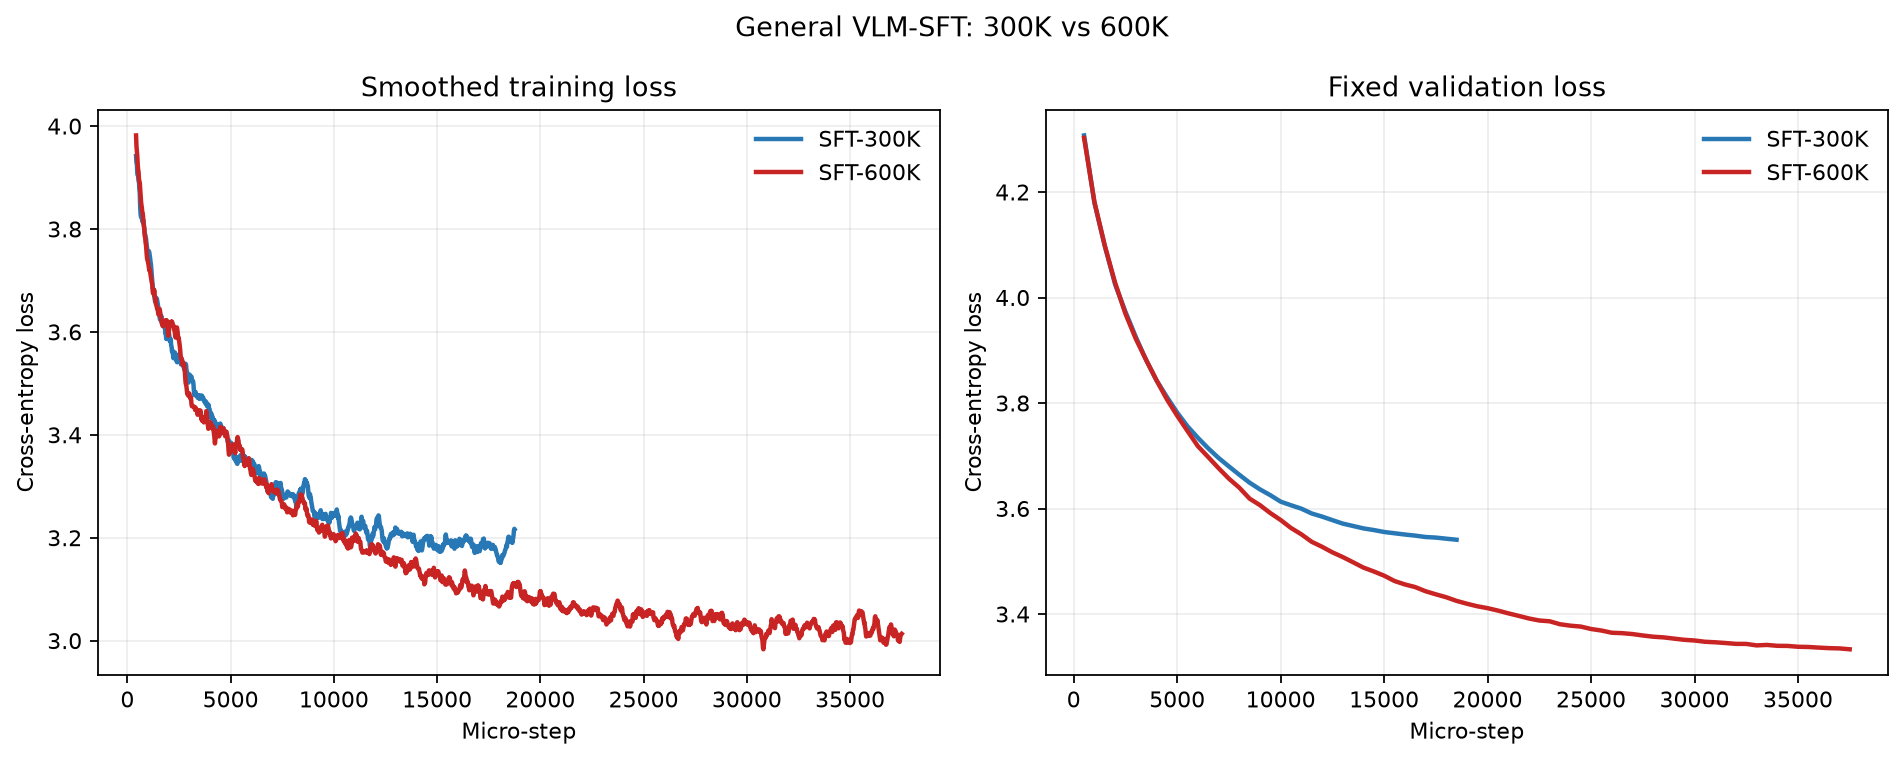
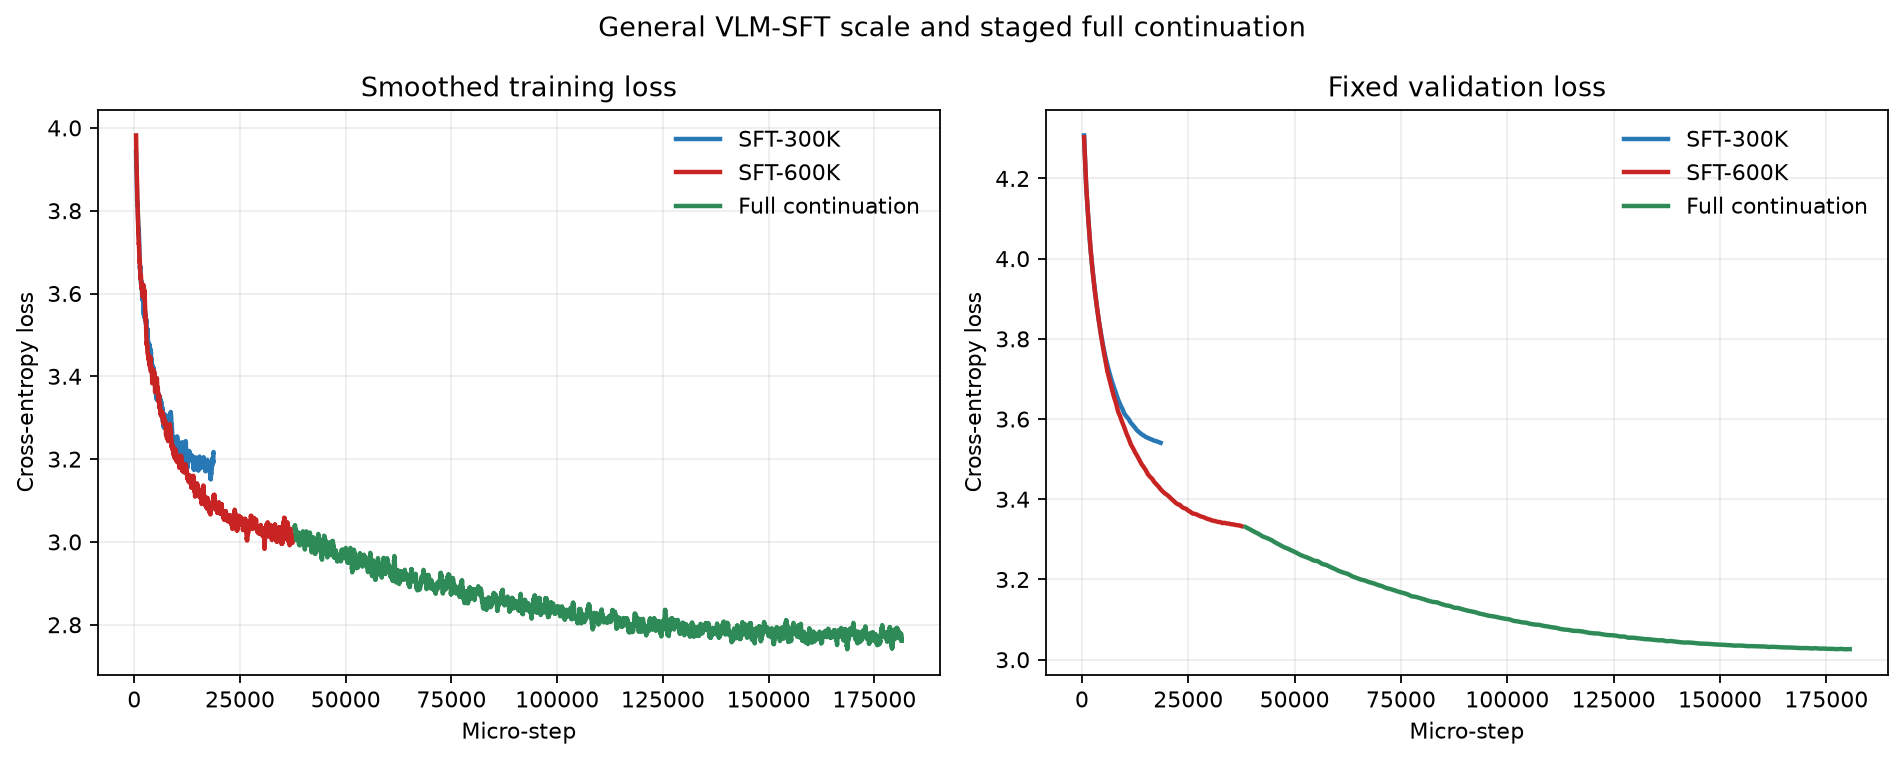
docs: record completed full SFT results

diff --git a/scripts/plot_sft_comparison.py b/scripts/plot_sft_comparison.py
@@ -1,4 +1,4 @@
-"""Plot smoothed 300K/600K SFT training loss and fixed validation loss."""
+"""Plot SFT scale ablations and the staged full-data continuation."""
 
 import re
 from pathlib import Path
@@ -23,20 +23,26 @@ def smooth(values, window=21):
 
 
 fig, axes = plt.subplots(1, 2, figsize=(12, 4.8), dpi=160)
-colors = {"SFT-300K": "#2878B5", "SFT-600K": "#C82423"}
-for label, run in [("SFT-300K", "p2_sft_300k"), ("SFT-600K", "p2_sft_600k")]:
+colors = {"SFT-300K": "#2878B5", "SFT-600K": "#C82423", "Full continuation": "#2E8B57"}
+for label, run, offset in [
+    ("SFT-300K", "p2_sft_300k", 0),
+    ("SFT-600K", "p2_sft_600k", 0),
+    ("Full continuation", "p2_sft_remaining", 37500),
+]:
     steps, losses, validation = parse(f"experiment_runs/{run}/train.log")
+    steps = steps + offset
     averaged, window = smooth(losses)
     axes[0].plot(steps[window - 1 :], averaged, label=label, color=colors[label], linewidth=2)
-    val_steps = sorted(validation)
-    axes[1].plot(val_steps, [validation[s] for s in val_steps], label=label, color=colors[label], linewidth=2)
+    raw_val_steps = sorted(validation)
+    val_steps = [step + offset for step in raw_val_steps]
+    axes[1].plot(val_steps, [validation[s] for s in raw_val_steps], label=label, color=colors[label], linewidth=2)
 
 axes[0].set(title="Smoothed training loss", xlabel="Micro-step", ylabel="Cross-entropy loss")
 axes[1].set(title="Fixed validation loss", xlabel="Micro-step", ylabel="Cross-entropy loss")
 for axis in axes:
     axis.grid(alpha=0.22)
     axis.legend(frameon=False)
-fig.suptitle("General VLM-SFT: 300K vs 600K")
+fig.suptitle("General VLM-SFT scale and staged full continuation")
 fig.tight_layout()
 output = Path("experiment_runs/p2_sft_comparison.png")
 fig.savefig(output, bbox_inches="tight")

diff --git a/EXPERIMENT_PLAN.md b/EXPERIMENT_PLAN.md
@@ -22,24 +22,29 @@
 
 验收结果：训练loss稳定下降；Real Image loss 3.0470，Zero 3.7419，Shuffled 3.6754；权重已严格加载并完成消融。
 
-## Phase 2：General VLM-SFT（下一阶段）
+## Phase 2：General VLM-SFT（已完成）
 
-- [ ] 建立固定SFT验证集，按语言和任务类型统计分布
-- [ ] 生成30K工程冒烟集、300K主实验集和600K规模消融集
-- [ ] 将Pretrain的DDP屏障与NCCL稳定配置复用到SFT
-- [ ] 30K只做短程稳定性、过拟合和评测链路检查，不作为正式结果
-- [ ] SFT-300K：正式基线，1 epoch，max length 768
-- [ ] SFT-600K：仅在300K指标有效后运行，用于数据规模消融
-- [ ] SFT-Full：仅在600K继续显著优于300K时，作为最终上限实验
+- [x] 建立固定1,000条SFT验证集并从训练数据排除
+- [x] 生成30K工程冒烟集、300K主实验集和600K规模消融集
+- [x] 将Pretrain的DDP屏障与NCCL稳定配置复用到SFT
+- [x] 完成30K工程冒烟，不作为正式结论
+- [x] 完成SFT-300K正式基线，1 epoch，max length 768
+- [x] 完成SFT-600K规模消融
+- [x] 从600K继续训练未见过的2,303,511条数据，完成分阶段全量SFT
+- [x] 保存最终权重、resume checkpoint、配置、指标与SHA-256
 
-验收：视觉描述、OCR、计数和短问答可正常生成；Real Image优于Zero/Shuffled；300K相对Pretrain取得明确收益。
+验收结果：全量阶段完成143,970/143,970步，固定验证loss降至3.0263；256条消融中Real/Zero/Shuffled分别为3.0692/3.3161/3.3081，视觉语义依赖得到保留。
 
 ## Phase 3：CoT-SFT
 
-- 186,094条clean CoT
-- 混合20–30%普通SFT防止遗忘
-- 2 epochs，max length 1024
-- 对比Reasoning Dropout 0与0.2
+- [ ] 先对全量SFT进行固定生成式基线评测，覆盖VQA、OCR、计数和短答案
+- [ ] 对186,094条clean CoT去重，并混合20–30%普通SFT replay防止遗忘
+- [ ] 运行100–500 step冒烟，确认1024长度下的batch、显存、格式与恢复链路
+- [ ] 从同一全量SFT权重运行CoT-SFT（Reasoning Dropout=0）
+- [ ] 运行严格同配置的Reasoning Dropout=0.2消融
+- [ ] 比较推理准确率、普通VQA保持率、reasoning-on/off与格式合规率
+
+建议正式配置：2 epochs、max length 1024、learning rate 1e-6～2e-6；先以实测显存确定有效全局batch 32或64。只有固定生成评测链路完成后才启动正式CoT对照，避免只凭loss判断推理能力。
 
 验收：推理任务提升；普通VQA下降受控；无思考模式仍能输出答案。
 

diff --git a/README.md b/README.md
@@ -115,15 +115,6 @@ flowchart LR
 - 保留率：62.03%
 - 格式错误、空答案、损坏图片：0
 
-### 模型兼容与视觉链路
-
-- `reason_768.pth` 147个tensor严格匹配
-- Shape mismatch：0
-- Unexpected keys：0
-- 文本前向测试通过
-- SigLIP P32单图forward/backward通过
-- Vision Projector梯度非零
-
 ### Multimodal Pretrain
 
 | 指标 | 结果 |
@@ -149,14 +140,15 @@ flowchart LR
 | SFT-30K | 30,000 | 3.44 | - | 4.0518 |
 | SFT-300K | 300,000 | 3.2149 | 3.5408 | - |
 | SFT-600K | 600,000 | 3.0104 | 3.3331 | 3.3800 |
+| SFT-Full（600K续训） | +2,303,511未见样本 | 2.7593 | 3.0263 | 3.0692 |
 
-600K与300K从同一个Pretrain checkpoint初始化，使用相同固定验证集。600K将固定验证loss从3.5408降至3.3331，说明增加高质量通用SFT数据仍有明确收益。下一阶段从600K权重继续训练未见过的约230万条remaining数据，构成分阶段全量SFT。
+600K与300K从同一个Pretrain checkpoint初始化，使用相同固定验证集。600K将固定验证loss从3.5408降至3.3331。随后从600K权重继续训练未见过的2,303,511条数据，最终固定验证loss降至3.0263，相对600K再降低9.20%。最终模型的Zero/Shuffled loss为3.3161/3.3081，均高于Real loss 3.0692，说明全量SFT后仍保留匹配视觉语义依赖。
 
 详细记录见 [EXPERIMENT_REPORT.md](./EXPERIMENT_REPORT.md)，后续安排见 [EXPERIMENT_PLAN.md](./EXPERIMENT_PLAN.md)。
 
 ## 当前效果
 
-当前已完成CoT数据工程、Multimodal Pretrain以及30K/300K/600K General SFT规模实验。全量SFT采用“600K + 未见过的约230万remaining数据”分阶段完成。
+当前已完成CoT数据工程、Multimodal Pretrain、30K/300K/600K General SFT规模实验与分阶段全量SFT。下一阶段先建立固定生成式基线，再运行CoT-SFT与Reasoning Dropout对照。
 
 | 模型阶段 | 普通VQA | OCR | 计数 | 可验证推理 | 格式合规率 |
 |---|---:|---:|---:|---:|---:|

diff --git a/EXPERIMENT_REPORT.md b/EXPERIMENT_REPORT.md
@@ -1,6 +1,6 @@
 # MiniMind-V-Reasoning Experiment Report
 
-本文只记录影响模型能力结论的主要实验与消融。环境校准、脚本修复、路径调整和冒烟测试不作为独立实验。
+本文详细记录影响模型能力结论的主要实验与消融结果。
 
 ## 1. 实验总览
 
@@ -9,7 +9,7 @@
 | E1 | CoT数据蒸馏 | 四卡异步教师生成 | 已完成 |
 | E2 | CoT质量清洗 | 是否过滤模板化元推理 | 已完成 |
 | E3 | Multimodal Pretrain | 真实图像 vs 全零图像 vs 错配图像 | 已完成 |
-| E4 | General VLM-SFT | 30–60万分层数据 vs 全量数据 | 待实验 |
+| E4 | General VLM-SFT | 30–60万分层数据 vs 分阶段全量数据 | 已完成 |
 | E5 | CoT-SFT | 无CoT vs CoT；Dropout 0 vs 0.2 | 待实验 |
 | E6 | Rule-based GRPO | SFT策略 vs GRPO策略 | 待实验 |
 
@@ -135,7 +135,7 @@
 
 验证通用SFT数据规模从300K增加到600K是否继续改善泛化。两个正式组均从同一个Pretrain checkpoint初始化，使用相同训练配置与固定验证集；600K集合完整包含300K集合。
 
-![General VLM-SFT 300K vs 600K](./experiment_runs/p2_sft_comparison.png)
+![General VLM-SFT scale and staged full continuation](./experiment_runs/p2_sft_comparison.png)
 
 ### 结果
 
@@ -145,12 +145,15 @@
 | SFT-30K Smoke | 30,000 | 3.44 | - | 4.0518 |
 | SFT-300K | 300,000 | 3.2149 | 3.5408 | - |
 | SFT-600K | 600,000 | 3.0104 | 3.3331 | 3.3800 |
+| SFT-Full（600K续训） | +2,303,511未见样本 | 2.7593 | 3.0263 | 3.0692 |
 
 600K相对300K将固定验证loss降低0.2077（5.87%）。在同一256条样本上，SFT-600K的Zero-image loss为3.6263，Shuffled-image loss为3.6196，均高于Real-image loss 3.3800，视觉依赖仍然保留。
 
+分阶段全量续训完成143,970步，耗时10小时57分，平均吞吐58.86 samples/s，峰值显存4.59 GB/卡。最终固定验证loss为3.0263，相对600K进一步降低0.3068（9.20%），相对300K降低0.5145（14.53%）。最终模型在同一256条样本上的Zero-image与Shuffled-image loss分别为3.3161和3.3081，较Real-image 3.0692增加0.2469和0.2388。
+
 ### 结论
 
-增加到600K不仅降低训练loss，也持续降低固定验证loss，没有出现明显过拟合。数据规模收益成立，因此最终模型采用分阶段全量训练：从SFT-600K权重出发，只训练其余未见过的2,303,511条样本，避免重复加权前600K。该结果用于最终模型构建，不作为与300K/600K严格同初始化的Full消融。
+增加到600K不仅降低训练loss，也持续降低固定验证loss，没有出现明显过拟合。分阶段全量训练进一步改善固定验证loss，同时保留对匹配图像的依赖。由于Full从SFT-600K继续训练，它代表最终模型构建结果，不是与300K/600K严格同初始化的独立规模消融；对Full能力的最终判断还需要生成式任务准确率，不能只依据token loss。
 
 ## 6. E5：CoT-SFT与Reasoning Dropout
 
@@ -172,7 +175,7 @@
 |---|---:|---:|---:|---:|---:|---:|
 | Reason LLM | 待测 | 待测 | 待测 | 待测 | - | 待测 |
 | + Pretrain | SFT后评测 | SFT后评测 | SFT后评测 | - | loss +20.62% | - |
-| + General SFT | 待实验 | 待实验 | 待实验 | 待实验 | 待实验 | 待实验 |
+| + General SFT | 待生成评测 | 待生成评测 | 待生成评测 | 待生成评测 | loss +7.78% | 待生成评测 |
 | + CoT-SFT | 待实验 | 待实验 | 待实验 | 待实验 | 待实验 | 待实验 |
 | + Reasoning Dropout | 待实验 | 待实验 | 待实验 | 待实验 | 待实验 | 待实验 |
 | + GRPO | 待实验 | 待实验 | 待实验 | 待实验 | 待实验 | 待实验 |